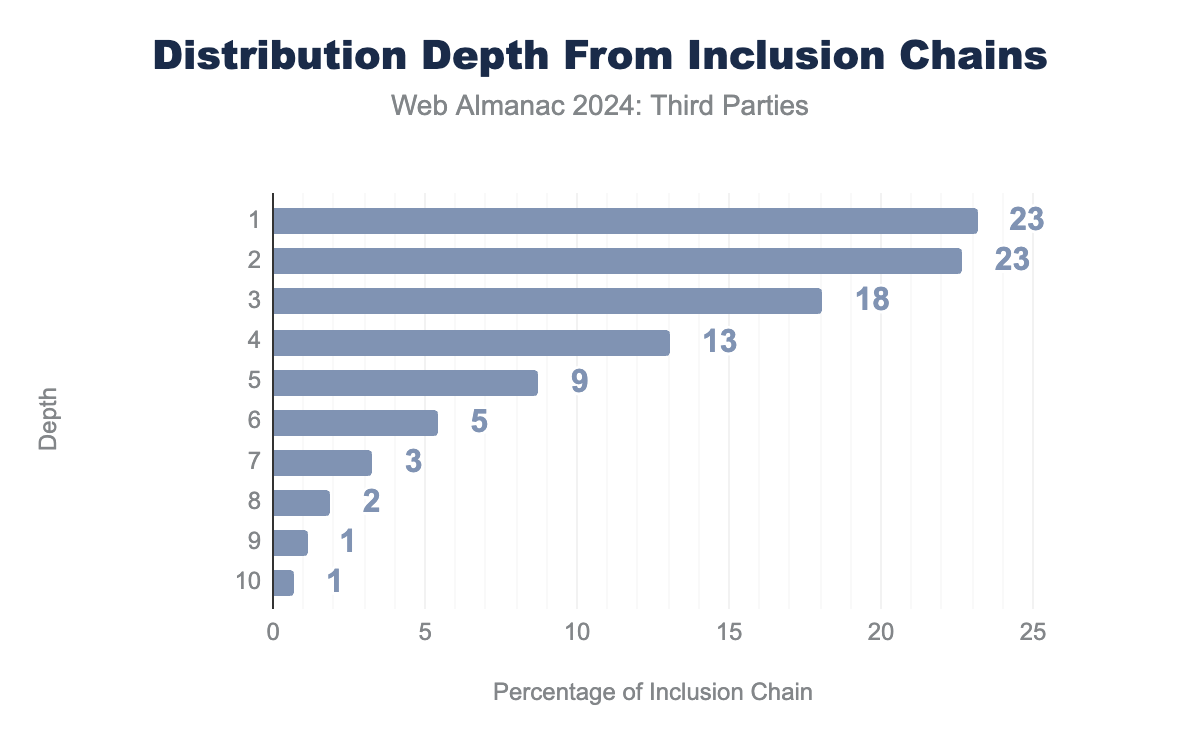
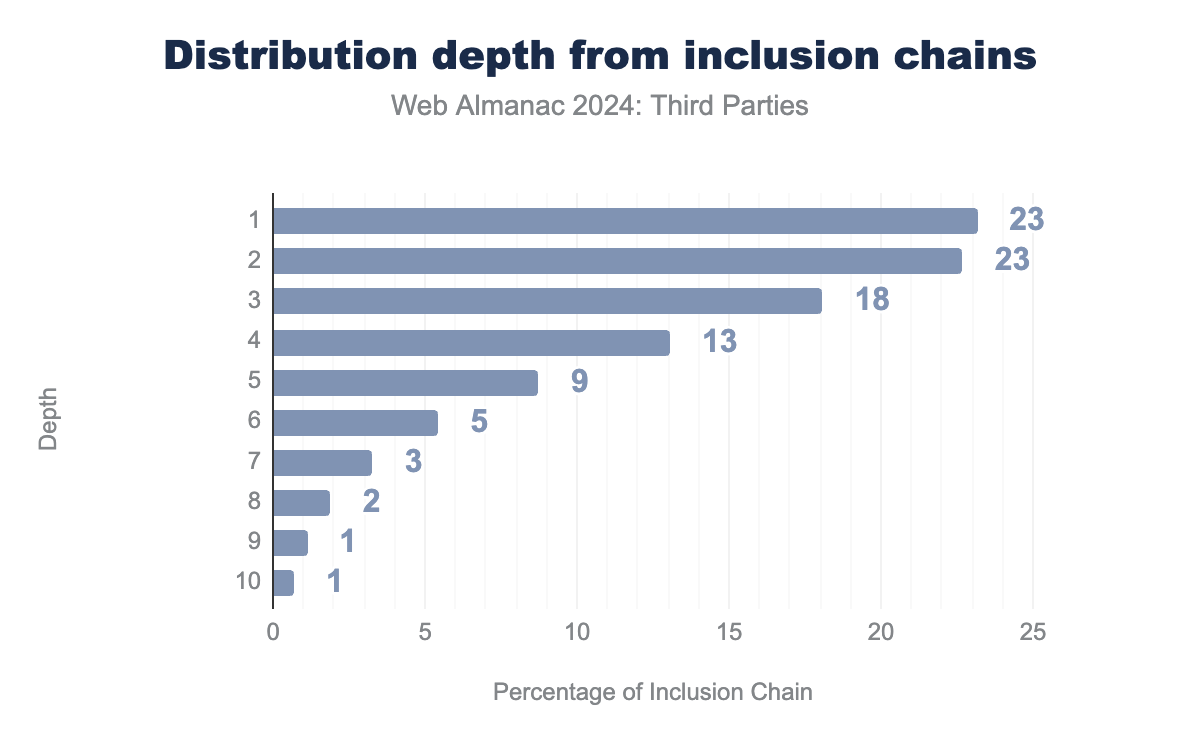
More edits

Changed region(s): [[0.1233, 0.031, 0.8942, 0.124]]

diff --git a/src/content/en/2024/third-parties.md b/src/content/en/2024/third-parties.md
@@ -37,23 +37,23 @@ As discussed at the start, this widespread use of third parties on the web has p
 
 ### Sites and pages
 
-In this chapter, we use the term **site** to depict the registerable part of a given domain—often referred to as _extended Top Level Domain plus one_ (eTLD+1). For example, given the URL `https://www.bar.com/ `the eTLD+1 is `bar.com` and for the URL `https://foo.co.uk` the eTLD+1 is `foo.co.uk`. By **page** (or web page), we mean a unique URL or, more specifically, the document (e.g., HTML or JavaScript) located at the particular URL.
+In this chapter, we use the term **site** to depict the registerable part of a given domain—often referred to as _extended Top Level Domain plus one_ (eTLD+1). For example, given the URL `https://www.bar.com/ `the eTLD+1 is `bar.com` and for the URL `https://foo.co.uk` the eTLD+1 is `foo.co.uk`. By **page** (or web page), we mean a unique URL or, more specifically, the document (for example HTML or JavaScript) located at the particular URL.
 
 ### What is a third party?
 
 We stick to the aforementioned definition of a third party used in previous editions of the Web Almanac to allow for comparison between this and the previous editions.
 
-A **third party** is an entity different from the site owner (aka first party). It involves the aspects of the site not directly implemented and served by the site owner. More precisely, third-party content is loaded from a different site (i.e., the third party) rather than the one originally visited by the user. Assume that the user visits `example.com` (the first party) and `example.com` includes silly cat images from `awesome-cats.edu` (e.g., via a `<img>` tag). In that scenario, `awesome-cats.edu` is the third party, as it was not originally visited by the user. However, if the user directly visits `awesome-cats.edu`, `awesome-cats.edu` is the first party.
+A **third party** is an entity different from the site owner (aka first party). It involves the aspects of the site not directly implemented and served by the site owner. More precisely, third-party content is loaded from a different site (i.e., the third party) rather than the one originally visited by the user. Assume that the user visits `example.com` (the first party) and `example.com` includes silly cat images from `awesome-cats.edu` (for example using an `<img>` tag). In that scenario, `awesome-cats.edu` is the third party, as it was not originally visited by the user. However, if the user directly visits `awesome-cats.edu`, `awesome-cats.edu` is the first party.
 
 Only third parties originating from a domain whose resources can be found on at least 50 unique pages in the HTTP Archive dataset were included to match the definition. When third-party content is directly served from a first-party domain, it is counted as first-party content. For example, self-hosted CSS or fonts are counted as first-party content. Similarly, first-party content served from a third-party domain is counted as third-party content—assuming it passes the "more than 50 pages criteria." Some third parties serve content from different subdomains. However, regardless of the number of subdomains, they are counted as a single third party. Further, it is becoming increasingly common for third parties to be masqueraded as a first party, for example, through techniques like <a hreflang="en" href="https://ldklab.github.io/assets/papers/madweb21-cloaking.pdf">CNAME cloaking</a>. We consider them a first party in this analysis. Thus, our results present a lower bound on the prevalence of third parties on the web.
 
 ### Categories
 
-As previously indicated, third parties can be used for various use cases (e.g., to include videos, to serve ads, or to include content from social media sites). To categorize the observed third parties in our dataset, we rely on the <a hreflang="en" href="https://github.com/patrickhulce/third-party-web/#third-parties-by-category">third-party Web</a> repository from [Patrick Hulce](https://x.com/patrickhulce). The repository breaks down third parties along the following categories:
+As previously indicated, third parties can be used for various use cases—for example, to include videos, to serve ads, or to include content from social media sites. To categorize the observed third parties in our dataset, we rely on the <a hreflang="en" href="https://github.com/patrickhulce/third-party-web/#third-parties-by-category">third-party Web</a> repository from [Patrick Hulce](https://x.com/patrickhulce). The repository breaks down third parties along the following categories:
 
 - **Ad**: These scripts are part of advertising networks, either serving or measuring.
-- **Analytics** -These scripts measure or track users and their actions. There's a wide range of impact here, depending on what's being tracked.
-- **CDN**: These are a mixture of publicly hosted open source libraries (e.g., jQuery) served over different public CDNs and private CDN usage.
+- **Analytics**: These scripts measure or track users and their actions. There's a wide range of impact here, depending on what's being tracked.
+- **CDN**: These are a mixture of publicly hosted open source libraries (for example jQuery) served over different public CDNs and private CDN usage.
 - **Content**: These scripts are from content providers or publishing-specific affiliate tracking.
 - **Customer Success**: These scripts are from customer support/marketing providers that offer chat and contact solutions. These scripts are generally heavier in weight.
 - **Hosting***: These scripts are from web hosting platforms (WordPress, Wix, Squarespace, etc.).
@@ -65,7 +65,7 @@ As previously indicated, third parties can be used for various use cases (e.g., 
 - **Consent provider**: These scripts allow sites to manage the user consent (eg. for the [General Data Protection Regulation](https://wikipedia.org/wiki/General_Data_Protection_Regulation) compliance). They are also known as the 'Cookie Consent' popups and are usually loaded on the critical path.
 - **Other**: These are miscellaneous scripts delivered via a shared origin with no precise category or attribution.
 
-<p class="note">Note: The CDN category here includes providers that provide resources on public CDN domains (e.g., bootstrapcdn.com, cdnjs.cloudflare.com, etc.) and does not include resources that are simply served over a CDN. For example, putting Cloudflare in front of a page would not influence its first-party designation according to our criteria.</p>
+<p class="note">Note: The CDN category here includes providers that provide resources on public CDN domains (for example <code>bootstrapcdn.com</code>, <code>cdnjs.cloudflare.com</code>, etc.) and does not include resources that are simply served over a CDN. For example, putting Cloudflare in front of a page would not influence its first-party designation according to our criteria.</p>
 
 <p class="note">Similar to previous years, the Hosting category is removed from our analysis. For example, if you happen to use WordPress.com for your blog, or Shopify for your e-commerce platform, then we're going to ignore other requests for those domains by that site as not truly "third-party" as they are, in many ways, part of hosting on those platforms.</p>
 
@@ -86,7 +86,7 @@ figure_markup(
   )
 }}
 
-Figure 1 shows the percentage of pages that use one or more third parties. There is a slight decrease in the percentage of pages that use one or more third parties for low-ranked websites. Similar to 2021 and 2022, the percentage of pages with one or more third parties remains high at 92%.
+There is a slight decrease in the percentage of pages that use one or more third parties for low-ranked websites. Similar to 2021 and 2022, the percentage of pages with one or more third parties remains high at 92%.
 
 {{
 figure_markup(
@@ -99,7 +99,7 @@ figure_markup(
   )
 }}
 
-Figure 2 shows the distribution of the number of third parties by rank. We note a considerable decrease in the number of third parties for lower-ranked websites. The median number of third -parties is 66 for the top thousand websites and 27 for the top million websites. The number of third parties on the desktop is higher than that for mobile pages. The contrast between desktop and mobile is greater for higher-ranked websites.
+We note a considerable decrease in the number of third parties for lower-ranked websites. The median number of third-parties is 66 for the top thousand websites and 27 for the top million websites. The number of third parties on the desktop is higher than that for mobile pages. The contrast between desktop and mobile is greater for higher-ranked websites.
 
 {{
 figure_markup(
@@ -112,7 +112,7 @@ figure_markup(
   )
 }}
 
-Figure 3 shows the distribution of the number of third-party requests by rank. As compared to Figure 2, this analysis does not treat multiple requests to a third party as one. Again, we note that the number of third-party requests is higher for higher-ranked websites than lower-ranked websites. As compared to Figure 2, the difference between higher- and lower-ranked websites is less skewed in Figure 3.
+We note that the number of third-party requests is higher for higher-ranked websites than lower-ranked websites. When looking at requests, the difference between higher- and lower-ranked websites is less skewed than when looking at the number of third-parties in [figure 2](#fig-2).
 
 {{
 figure_markup(
@@ -125,7 +125,7 @@ figure_markup(
   )
 }}
 
-Figure 4 shows the distribution of third-party request categories across different website ranks. Excluding unknown, the top categories include consent provider, video, and customer success. The most popular consent provider domain is fundingchoicesmessages.google.com, the most popular video domain is www.youtube.com, and the most customer-success domain is embed.tawk.to.
+Excluding unknown, the top categories include consent provider, video, and customer success. The most popular consent provider domain is `fundingchoicesmessages.google.com`, the most popular video domain is `www.youtube.com`, and the most customer-success domain is `embed.tawk.to`.
 
 {{
 figure_markup(
@@ -138,7 +138,7 @@ figure_markup(
   )
 }}
 
-Figure 5 shows the distribution of third-party request types for desktop devices across the measurement. The top 3 types include `script`, `image`, and `other`. The most popular domain under these content-types is `fonts.googleapis.com`.
+The top 3 types include `script`, `image`, and `other`. The most popular domain under these content-types is `fonts.googleapis.com`.
 
 {{
 figure_markup(
@@ -153,7 +153,7 @@ figure_markup(
   )
 }}
 
-Figure 6 shows the distribution of top 10 third parties. The top 10 third party domains include several Google-owned domains such as `googleapis.com`, `googletagmanager.com`, `google-analytics.com`, `google.com`, and `youtube.com`. Meta's `facebook.com` is the only non-Google domain in the top 5.
+The top 10 third-party domains include several Google-owned domains such as `googleapis.com`, `googletagmanager.com`, `google-analytics.com`, `google.com`, and `youtube.com`. Meta's `facebook.com` is the only non-Google domain in the top 5.
 
 ## Inclusion
 
@@ -164,7 +164,7 @@ Such indirect inclusion of third parties on a page can be represented as a third
 {{
 figure_markup(
   image="median_depth_tp_inclusion_chains.png",
-  caption="Median depth of third-party inclusion chains",
+  caption="Median depth of third-party inclusion chains.",
   description="Bar chart showing the median depth from inclusion chain.",
   chart_url="https://docs.google.com/spreadsheets/d/e/2PACX-1vSiKVwcJsvW7J6Kq7hxRDG84Z5-tq7N1fm1ytH7qKI5Ws6hzFmDF2G-UD5cDMjG_3QXihAXaZUMRJt9/pubchart?oid=496285056&format=interactive",
   sheets_gid="868914926",
@@ -172,12 +172,12 @@ figure_markup(
   )
 }}
 
-Figure 7 provides the breakdown of the depth of the inclusion chain of the analyzed websites. The median depth of the inclusion chains is 3.4 of the inclusion chains are of length > 1, which means that they indirectly include at least one third party on the page. Notably, 14% of the inclusion chains are of length > 5. The inclusion chain with the highest depth has a length of 2,930.
+The median depth of the inclusion chains is 3.4 of the inclusion chains are of length > 1, which means that they indirectly include at least one third party on the page. Notably, 14% of the inclusion chains are of length > 5. The inclusion chain with the highest depth has a length of 2,930.
 
 {{
 figure_markup(
   image="median_depth_categories.png",
-  caption="Median depth of different categories of websites",
+  caption="Median depth of different categories of websites.",
   description="Bar chart showing the median depth of different categories and all.",
   chart_url="https://docs.google.com/spreadsheets/d/e/2PACX-1vSiKVwcJsvW7J6Kq7hxRDG84Z5-tq7N1fm1ytH7qKI5Ws6hzFmDF2G-UD5cDMjG_3QXihAXaZUMRJt9/pubchart?oid=186961190&format=interactive",
   sheets_gid="1274132728",
@@ -185,12 +185,12 @@ figure_markup(
   )
 }}
 
-Figure 8 provides the breakdown of the depth of the inclusion chain by different categories of websites. Across all categories, desktop pages have longer inclusion chains than mobile pages. We observe substantial differences across different website categories. The website category with the longest inclusion chains is `/Games`.
+Across all categories, desktop pages have longer inclusion chains than mobile pages. We observe substantial differences across different website categories. The website category with the longest inclusion chains is `/Games`.
 
 {{
 figure_markup(
   image="depth_of_gtm_called_urls.png",
-  caption="Third-parties included by the Google Tag Manager (googletagmanager.com)",
+  caption="Google Tag Manager inclusion chain URLs.",
   description="Bar chart showing the median depth of URLs in the inclusion chain called from the Google Tag Manager.",
   chart_url="https://docs.google.com/spreadsheets/d/e/2PACX-1vSiKVwcJsvW7J6Kq7hxRDG84Z5-tq7N1fm1ytH7qKI5Ws6hzFmDF2G-UD5cDMjG_3QXihAXaZUMRJt9/pubchart?oid=496082761&format=interactive",
   sheets_gid="1091971377",
@@ -198,7 +198,7 @@ figure_markup(
   )
 }}
 
-Figure 9 visualizes the top third-party domains that are included by `googletagmanager.com`, one of the top third-party domains in Figure 6. Note that it includes a number of other Google domains such `googleapis.com`, `google-analytics.com`, `google.com`, `gstatic.com`, `youtube.com`, `googlesyndication.com`, and `googleadservices.com`. Only three of the top 10 third-party domains included by `googletagmanager.com` are non-Google domains, which are `facebook.com` and `facebook.net` for Meta and `shopify.com` for Shopify.
+When we look specifically at `googletagmanager.com`, one of the top third-party domains. Note that it includes a number of other Google domains such `googleapis.com`, `google-analytics.com`, `google.com`, `gstatic.com`, `youtube.com`, `googlesyndication.com`, and `googleadservices.com`. Only three of the top 10 third-party domains included by `googletagmanager.com` are non-Google domains, which are `facebook.com` and `facebook.net` for Meta and `shopify.com` for Shopify.
 
 ## Conclusion
 
